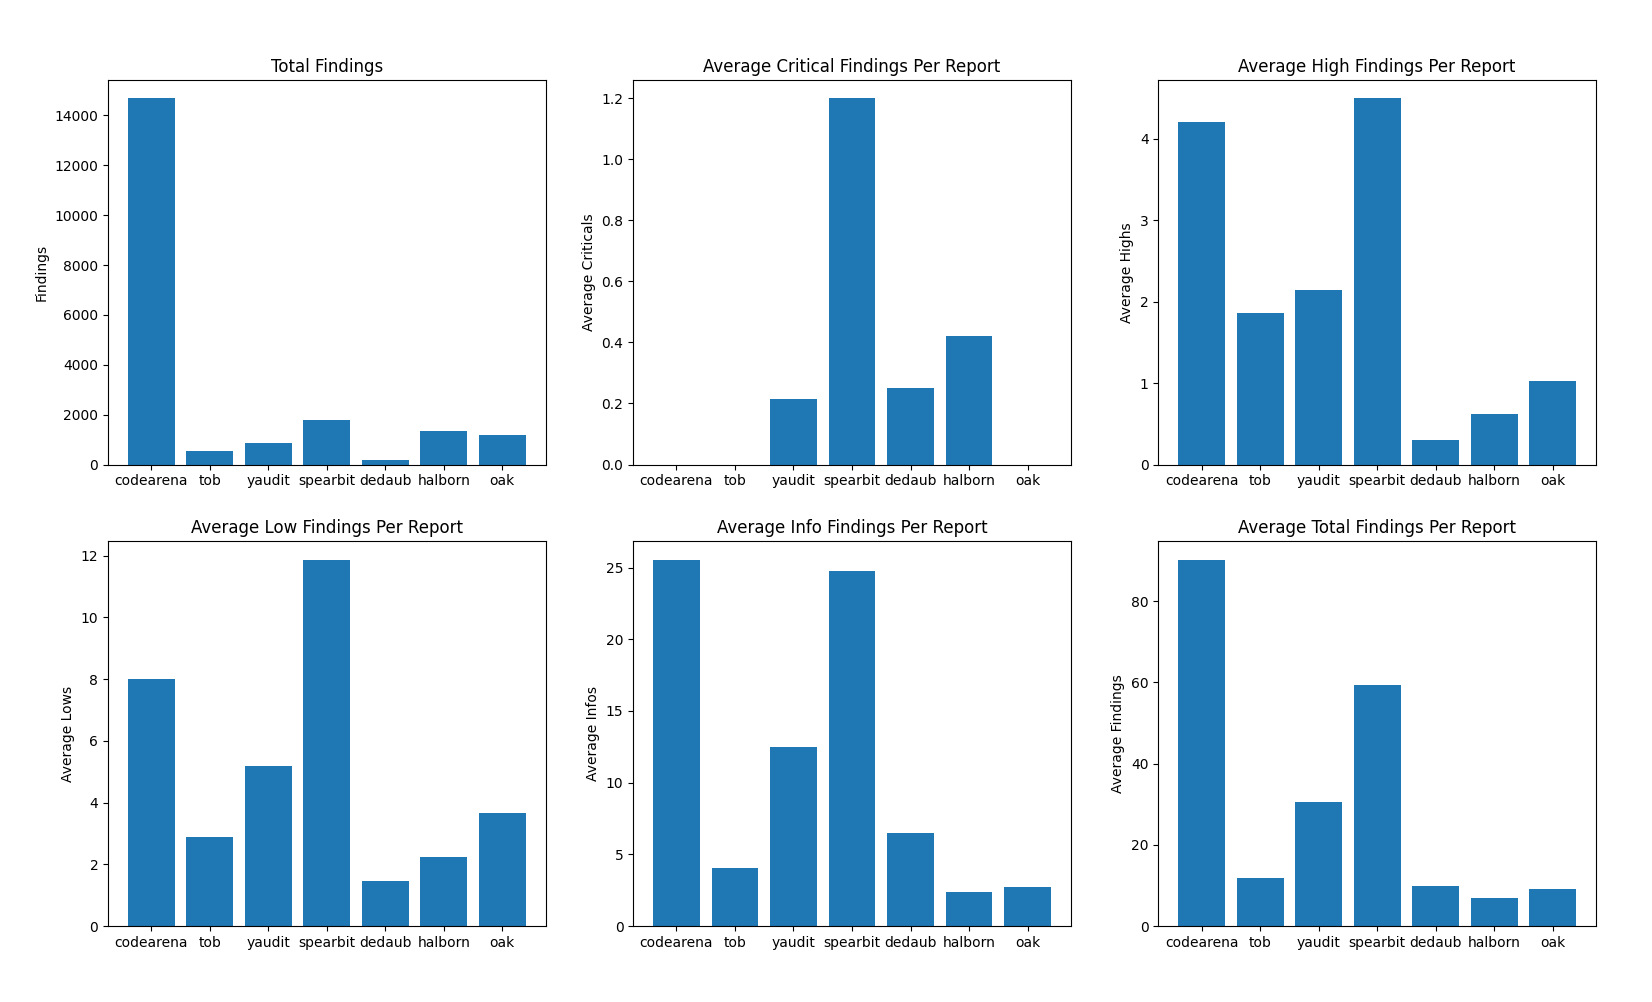
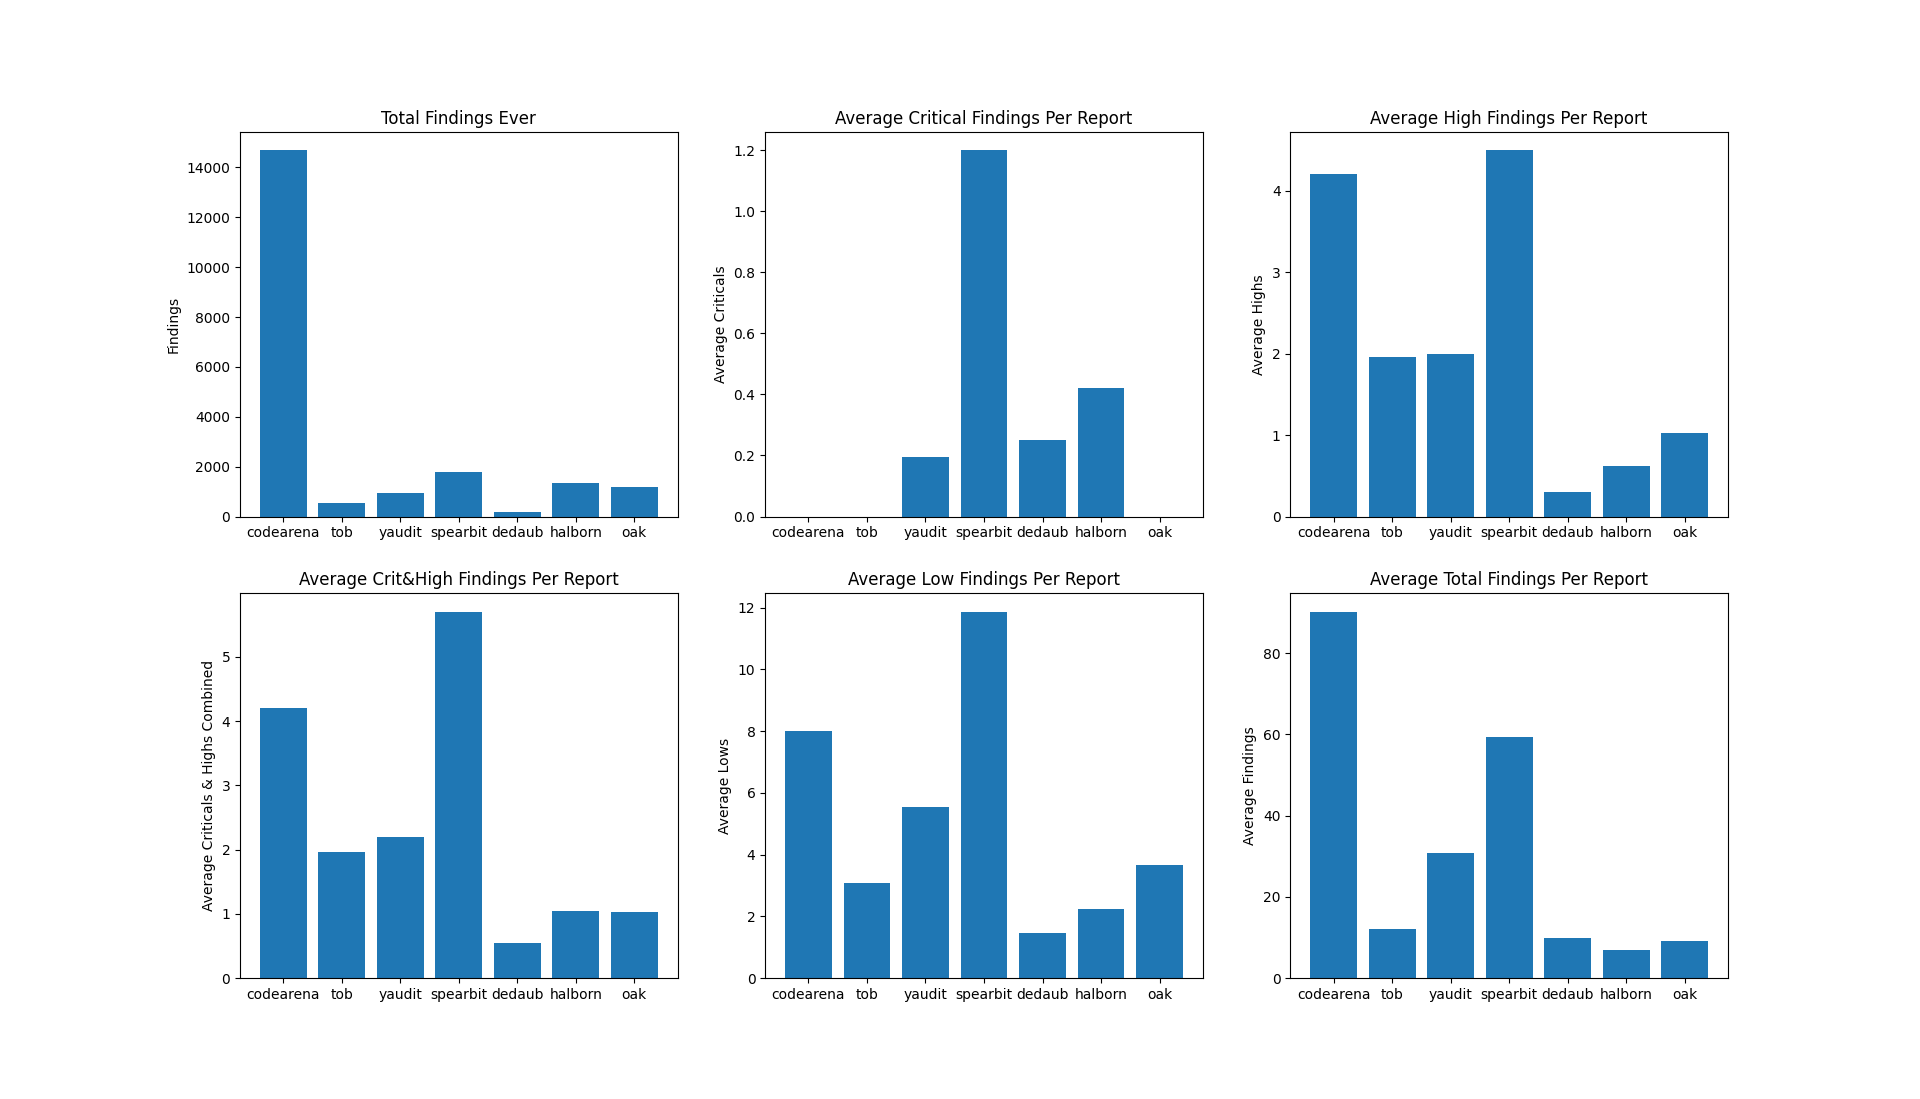
add crit&high plot for reports without crits

diff --git a/findings-metrics.py b/findings-metrics.py
@@ -12,12 +12,12 @@ def severity_metrics(file_name):
     print(file_name)
 
     # initialize all finding severity counters
-    informational_count = 0
-    gas_count = 0
-    low_count = 0
-    medium_count = 0
-    high_count = 0
     critical_count = 0
+    high_count = 0
+    medium_count = 0
+    low_count = 0
+    gas_count = 0
+    informational_count = 0
     undetermined_count = 0
     unknown_count = 0
     codearena_labels = ['QA (Quality Assurance)', 'G (Gas Optimization)', '0 (Non-critical)', '1 (Low Risk)', '2 (Med Risk)', '3 (High Risk)']
@@ -34,28 +34,28 @@ def severity_metrics(file_name):
             elif label in codearena_labels: # for tob and yaudit data
                 severity = label
         match severity:
-            case 'Informational':
-                informational_count += 1
-            case 'QA (Quality Assurance)':
-                informational_count += 1
-            case 'Gas':
-                gas_count += 1
-            case 'G (Gas Optimization)':
-                gas_count += 1
-            case 'Low':
-                low_count += 1
-            case '1 (Low Risk)':
-                low_count += 1
-            case 'Medium':
-                medium_count += 1
-            case '2 (Med Risk)':
-                medium_count += 1
-            case 'High':
-                high_count += 1
-            case '3 (High Risk)':
-                high_count += 1
             case 'Critical':
                 critical_count += 1
+            case '3 (High Risk)':
+                high_count += 1
+            case 'High':
+                high_count += 1
+            case '2 (Med Risk)':
+                medium_count += 1
+            case 'Medium':
+                medium_count += 1
+            case '1 (Low Risk)':
+                low_count += 1
+            case 'Low':
+                low_count += 1
+            case 'G (Gas Optimization)':
+                gas_count += 1
+            case 'Gas':
+                gas_count += 1
+            case 'QA (Quality Assurance)':
+                informational_count += 1
+            case 'Informational':
+                informational_count += 1
             case 'Undetermined':
                 undetermined_count += 1
             case '0 (Non-critical)':
@@ -64,12 +64,16 @@ def severity_metrics(file_name):
                 # print(labels) # print unknown severity for debugging
                 unknown_count += 1
 
+    # Some reports don't use critical rating, so combine high and crit findings count
+    critical_and_high_count = critical_count + high_count
+
     # Store other data of auditor totals
     audit_name = file_name.split("_")[0]
     total_count = len(existing_findings)
     unique_audits = count_audits(file_name)
 
     # Calculate the average findings per report
+    crit_high_avg = critical_and_high_count/unique_audits
     crit_avg = critical_count/unique_audits
     high_avg = high_count/unique_audits
     med_avg = medium_count/unique_audits
@@ -81,20 +85,21 @@ def severity_metrics(file_name):
     total_avg = total_count/unique_audits
 
     # Print data
-    print_severities(critical_count, high_count, medium_count, low_count, gas_count, informational_count, undetermined_count, unknown_count, total_count)
+    print_severities(critical_and_high_count, critical_count, high_count, medium_count, low_count, gas_count, informational_count, undetermined_count, unknown_count, total_count)
     print(">>>" + audit_name + " has " + str(unique_audits) + " unique audits")
-    print_averages(crit_avg, high_avg, med_avg, low_avg, gas_avg, info_avg, undet_avg, unk_avg, total_avg)
+    print_averages(crit_high_avg, crit_avg, high_avg, med_avg, low_avg, gas_avg, info_avg, undet_avg, unk_avg, total_avg)
 
     # Finally, write all data to CSV
-    all_stats = [audit_name, str(critical_count), str(high_count), str(medium_count), str(low_count), str(gas_count), str(informational_count), str(undetermined_count), str(unknown_count), str(total_count), str(unique_audits)]
-    avg_stats = [str(crit_avg), str(high_avg), str(med_avg), str(low_avg), str(gas_avg), str(info_avg), str(undet_avg), str(unk_avg), str(total_avg)]
+    all_stats = [audit_name, str(critical_and_high_count), str(critical_count), str(high_count), str(medium_count), str(low_count), str(gas_count), str(informational_count), str(undetermined_count), str(unknown_count), str(total_count), str(unique_audits)]
+    avg_stats = [str(crit_high_avg), str(crit_avg), str(high_avg), str(med_avg), str(low_avg), str(gas_avg), str(info_avg), str(undet_avg), str(unk_avg), str(total_avg)]
     combined_data = all_stats + [' '] + avg_stats
     csv_output_line = ','.join(combined_data) # join only works with strings, not ints
     with open(f"results.csv", "a") as f:
         f.write(csv_output_line + "\n")
         f.close()
 
-def print_severities(crit, high, med, low, gas, info, undetermined, unknown, total):
+def print_severities(crit_and_high, crit, high, med, low, gas, info, undetermined, unknown, total):
+    print(str(crit_and_high) + " Critical and High findings or " + str(100 * crit_and_high/total) + "%")
     print(str(crit) + " Critical findings or " + str(100 * crit/total) + "%")
     print(str(high) + " High findings or " + str(100 * high/total) + "%")
     print(str(med) + " Medium findings or " + str(100 * med/total) + "%")
@@ -106,8 +111,9 @@ def print_severities(crit, high, med, low, gas, info, undetermined, unknown, tot
     print(str(total) + " total findings")
     print()
 
-def print_averages(crit, high, med, low, gas, info, undetermined, unknown, total):
+def print_averages(crit_and_high, crit, high, med, low, gas, info, undetermined, unknown, total):
     print("Average number of findings per audit:")
+    print(str(crit_and_high) + " Critical and High findings per audit")
     print(str(crit) + " Critical findings per audit")
     print(str(high) + " High findings per audit")
     print(str(med) + " Medium findings per audit")
@@ -132,9 +138,10 @@ def count_audits(file_name):
         # Use the report url to identify the number of unique audits
         if 'html_url' in finding.keys():
             report_url = finding['html_url']
+            # The codearena html link points to the specific issue, need to check only if report is unique
             if report_url.find("github.com/code-423n4/") > 0:
                 report_url = report_url.split("/issues/")[0]
-            if report_url not in all_reports:
+            if report_url not in all_reports: # this must be if, not else, to also handle c4 case
                 all_reports.append(report_url)
         else:
             continue
@@ -143,7 +150,7 @@ def count_audits(file_name):
 
 def insert_csv_header():
     with open(f"results.csv", "w") as f:
-        f.write("audit company, critical, high, medium, low, gas, info, undetermined, unknown, total, audit count, BLANK, critical average, high average, medium average, low average, gas average, info average, undetermined average, unknown average, total average\n")
+        f.write("audit company, critical_and_high, critical, high, medium, low, gas, info, undetermined, unknown, total, audit count, BLANK, critical_and_high average, critical average, high average, medium average, low average, gas average, info average, undetermined average, unknown average, total average\n")
         f.close()
 
 if __name__ == "__main__":

diff --git a/plotter.py b/plotter.py
@@ -22,32 +22,36 @@ def plot_data(csv_file: str):
 			all_data.append(row)
 	
 	audit_names = []
-	crits, highs, meds, lows, gas, infos, undet, unk, total  = ([] for i in range(9))
-	crits_avg, highs_avg, meds_avg, lows_avg, gas_avg, infos_avg, undet_avg, unk_avg, total_avg = ([] for i in range(9))
+	crits_highs, crits, highs, meds, lows, gas, infos, undet, unk, total  = ([] for i in range(10))
+	crits_highs_avg, crits_avg, highs_avg, meds_avg, lows_avg, gas_avg, infos_avg, undet_avg, unk_avg, total_avg = ([] for i in range(10))
 	for i in range(len(all_data)):
 		if i == 0:
 			continue
 		audit_names.append(all_data[i][0])
 		# First, set total values
-		crits.append(float(all_data[i][1]))
-		highs.append(float(all_data[i][2]))
-		meds.append(float(all_data[i][3]))
-		lows.append(float(all_data[i][4]))
-		gas.append(float(all_data[i][5]))
-		infos.append(float(all_data[i][6]))
-		undet.append(float(all_data[i][7]))
-		unk.append(float(all_data[i][8]))
-		total.append(float(all_data[i][9]))
+		crits_highs.append(float(all_data[i][1]))
+		crits.append(float(all_data[i][2]))
+		highs.append(float(all_data[i][3]))
+		meds.append(float(all_data[i][4]))
+		lows.append(float(all_data[i][5]))
+		gas.append(float(all_data[i][6]))
+		infos.append(float(all_data[i][7]))
+		undet.append(float(all_data[i][8]))
+		unk.append(float(all_data[i][9]))
+		total.append(float(all_data[i][10]))
 		# Second, set average values
-		crits_avg.append(float(all_data[i][12]))
-		highs_avg.append(float(all_data[i][13]))
-		meds_avg.append(float(all_data[i][14]))
-		lows_avg.append(float(all_data[i][15]))
-		gas_avg.append(float(all_data[i][16]))
-		infos_avg.append(float(all_data[i][17]))
-		undet_avg.append(float(all_data[i][18]))
-		unk_avg.append(float(all_data[i][19]))
-		total_avg.append(float(all_data[i][20]))
+		crits_highs_avg.append(float(all_data[i][13]))
+		crits_avg.append(float(all_data[i][14]))
+		highs_avg.append(float(all_data[i][15]))
+		meds_avg.append(float(all_data[i][16]))
+		lows_avg.append(float(all_data[i][17]))
+		gas_avg.append(float(all_data[i][18]))
+		infos_avg.append(float(all_data[i][19]))
+		undet_avg.append(float(all_data[i][20]))
+		unk_avg.append(float(all_data[i][21]))
+		total_avg.append(float(all_data[i][22]))
+
+
 
 	# Plot the data
 
@@ -55,7 +59,7 @@ def plot_data(csv_file: str):
 	plt.subplot(231)
 	plt.bar(audit_names, total)
 	plt.ylabel('Findings')
-	plt.title('Total Findings')
+	plt.title('Total Findings Ever')
 	# Plot average crits
 	plt.subplot(232)
 	plt.bar(audit_names, crits_avg)
@@ -66,16 +70,21 @@ def plot_data(csv_file: str):
 	plt.bar(audit_names, highs_avg)
 	plt.ylabel('Average Highs')
 	plt.title('Average High Findings Per Report')
-	# Plot average low findings
+	# Plot average crit & high findings combined, because some reports don't use crit rating level
 	plt.subplot(234)
+	plt.bar(audit_names, crits_highs_avg)
+	plt.ylabel('Average Criticals & Highs Combined')
+	plt.title('Average Crit&High Findings Per Report')
+	# Plot average low findings
+	plt.subplot(235)
 	plt.bar(audit_names, lows_avg)
 	plt.ylabel('Average Lows')
 	plt.title('Average Low Findings Per Report')
-	# Plot average info findings
-	plt.subplot(235)
-	plt.bar(audit_names, infos_avg)
-	plt.ylabel('Average Infos')
-	plt.title('Average Info Findings Per Report')
+	# # Plot average info findings
+	# plt.subplot(235)
+	# plt.bar(audit_names, infos_avg)
+	# plt.ylabel('Average Infos')
+	# plt.title('Average Info Findings Per Report')
 	# Plot average total findings
 	plt.subplot(236)
 	plt.bar(audit_names, total_avg)

diff --git a/README.md b/README.md
@@ -1,11 +1,21 @@
 # Masamune-metrics
 
-Generate metrics from Masamune JSON results
+Generate metrics from Masamune JSON results. Provide visibility into what you're paying for at different smart contract security audit firms so that developers and protocols are not purchasing an unknown black box product with no hard data about what they will receive.
+
+## Warnings and Caveats
+
+> "There are three kinds of lies: lies, damned lies, and statistics"
+
+This data is open to interpretation because of, but not limited to:
+1. Every audit firm has their own severity rating process. The same finding may be rated low severity by one audit firm and high severity in another. Use the average results and review some of the specific firm's audit reports to determine what an average outcome may look like.
+2. This data is fully automated from parsed reports and does not consider the quality or uniqueness of report findings. If one audit firm includes 2 medium severity findings from slither (which may not be considered mediums elsewhere, as the previous point indicates) and another audit firm finds two very unique and hard-to-identify findings from custom analysis, they are counted the same in these metrics.
+3. Not all reports are public and this data can only harness public data. There is nothing that can be done about this except to encourage all developers to publish their audit reports to enhance data sharing across the ecosystem.
+4. What gets measured gets managed. If this dataset starts to become useful to developers deciding on an audit firm, you can be sure that audit firms will change how they rate the severity of findings to improve their stats. To counteract this, a neutral body that oversees some form of quality control for the severity rating of findings may be needed.
 
 ## Instructions
 
 1. Download this repository and download the [Masamune](https://github.com/Zellic/masamune) repository
-2. Copy the `findings-metrics.py` and `findings-metrics.py` files from this repository into the Masamune repository. Alternatively, copy the `results` directory from the Masamune repository into this directory
+2. Copy the `findings-metrics.py` and `findings-metrics.py` files from this repository into the Masamune repository. Alternatively, copy the `results` directory from the Masamune repository into this directory. The `findings-metrics.py` script needs to find the Masamune JSON files in the `./results` directory.
 3. Run `python3 findings-metrics.py` to generate the text output shown below and to create `result.csv` containing this data
 4. Run `python3 findings-metrics.py` to generate charts of the data using the `result.csv` file
 
